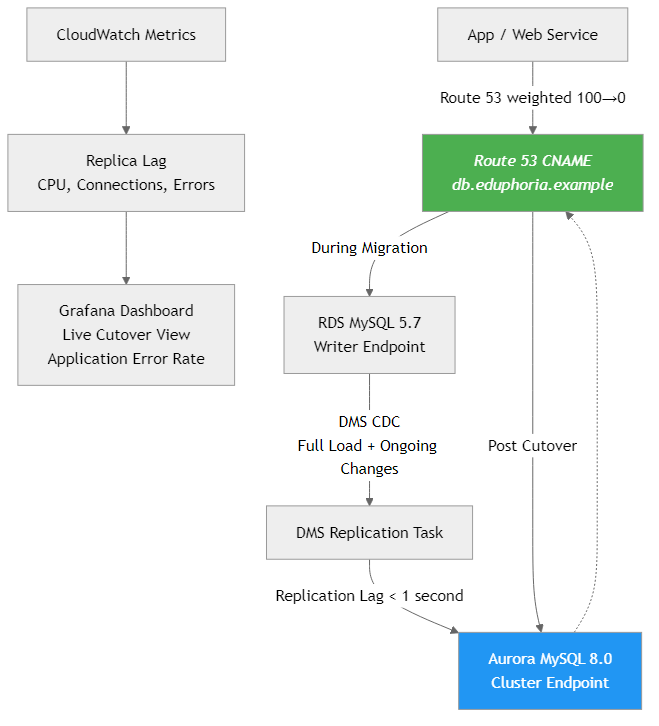
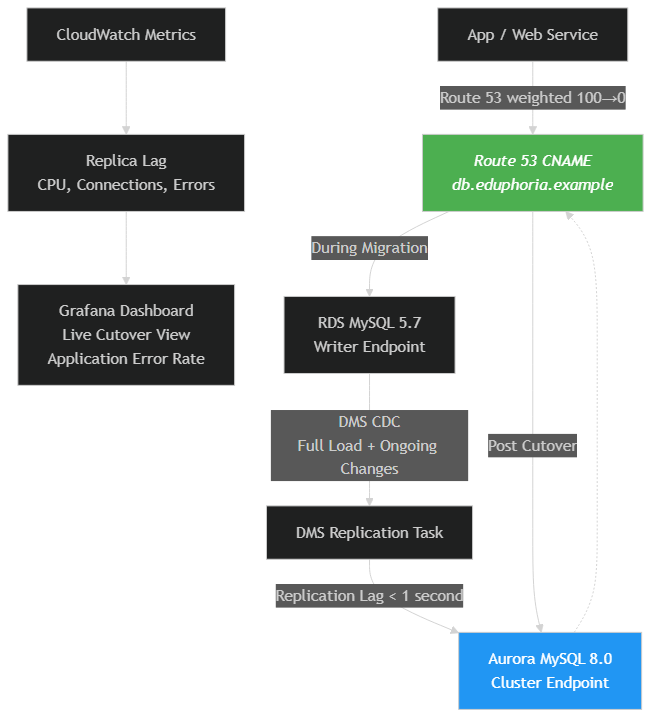
converted diagram to dark mode, created script to render diagram

diff --git a/README.md b/README.md
@@ -10,11 +10,14 @@ Each project follows the **AWS Well-Architected Framework** and mirrors real-wor
 
 ### 📁 Projects Overview  
 
-| # | Project | Core Tools | JD Keywords Hit |
-|---|----------|-------------|-----------------|
-| 01 | **Containerized Flask App on ECS Fargate** | Terraform, Docker, GitHub Actions, ECR | ECS, ALB, IAM, CloudWatch |
-| 02 | **EKS Observability Stack** | Terraform, Helm, Prometheus, Grafana | EKS, Observability, Monitoring |
-| 03 | **GitOps-Powered App on EKS with ArgoCD** | ArgoCD, GitHub Actions, Helm, Terraform | GitOps, CI/CD, Kubernetes Deployments |
+| #  | Project | Core Tools | JD Keywords Hit |
+|----|---------|------------|-----------------|
+| 01 | **Containerized Flask App on ECS Fargate** | Terraform, Docker, GitHub Actions | ECS, Fargate, CI/CD, Containers |
+| 02 | **EKS Observability Stack** | Terraform, Helm, Prometheus, Grafana | EKS, Monitoring, Metrics, Dashboards |
+| 03 | **GitOps-Powered App on EKS with ArgoCD** | ArgoCD, GitHub Actions, Helm | GitOps, Kubernetes, Deployments |
+| 04 | **Aurora Zero-Downtime Migration** | Terraform, DMS, Route 53, CloudWatch | RDS, Aurora, MySQL, Migrations, High Availability |
+
+
 
 ---
 

diff --git a/projects/04-aurora-zero-downtime-migration/README.md b/projects/04-aurora-zero-downtime-migration/README.md
@@ -47,3 +47,4 @@ Why This Project Matters
 Database migrations show up constantly in interviews for DevOps, Cloud, and Platform Engineering roles. This project demonstrates the ability to manage stateful workloads, plan safe migrations, automate infrastructure, and think about risk the same way production SaaS teams do.
 
 
+![Architecture](diagrams/aurora-zero-downtime-migration.png)
